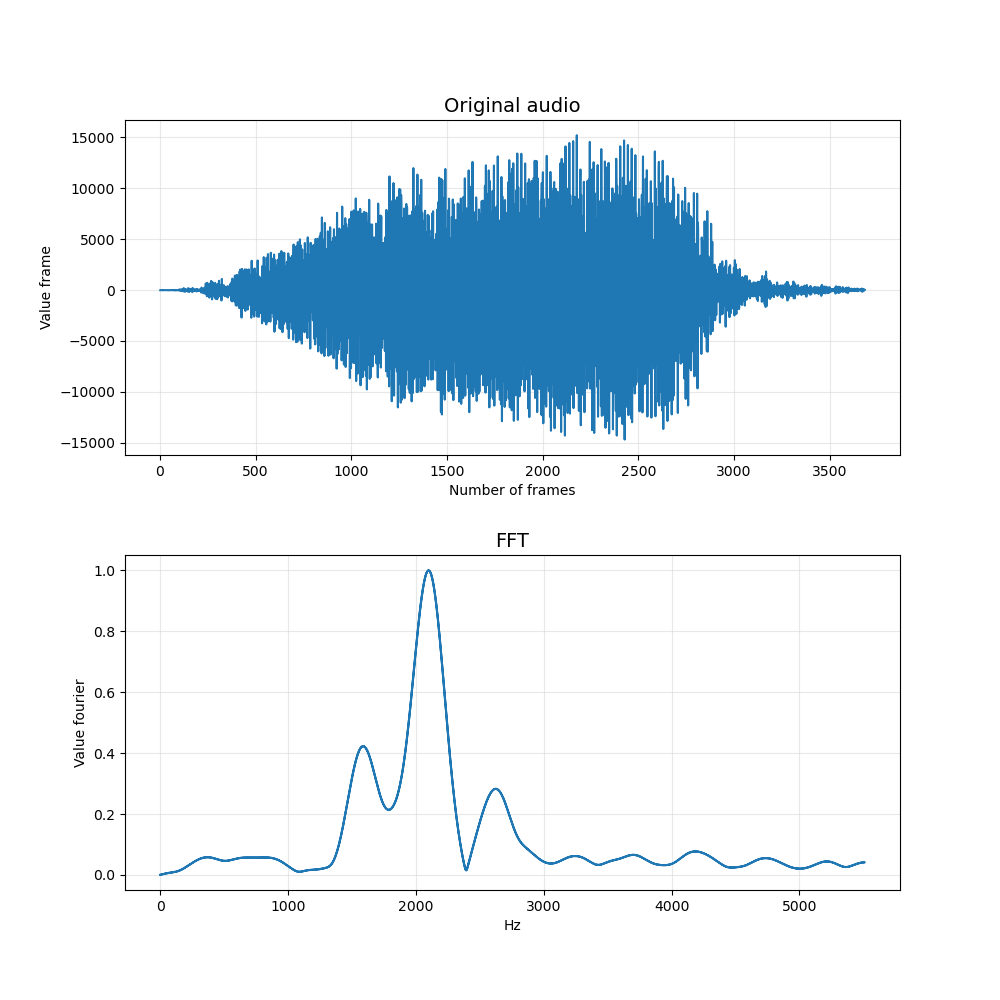
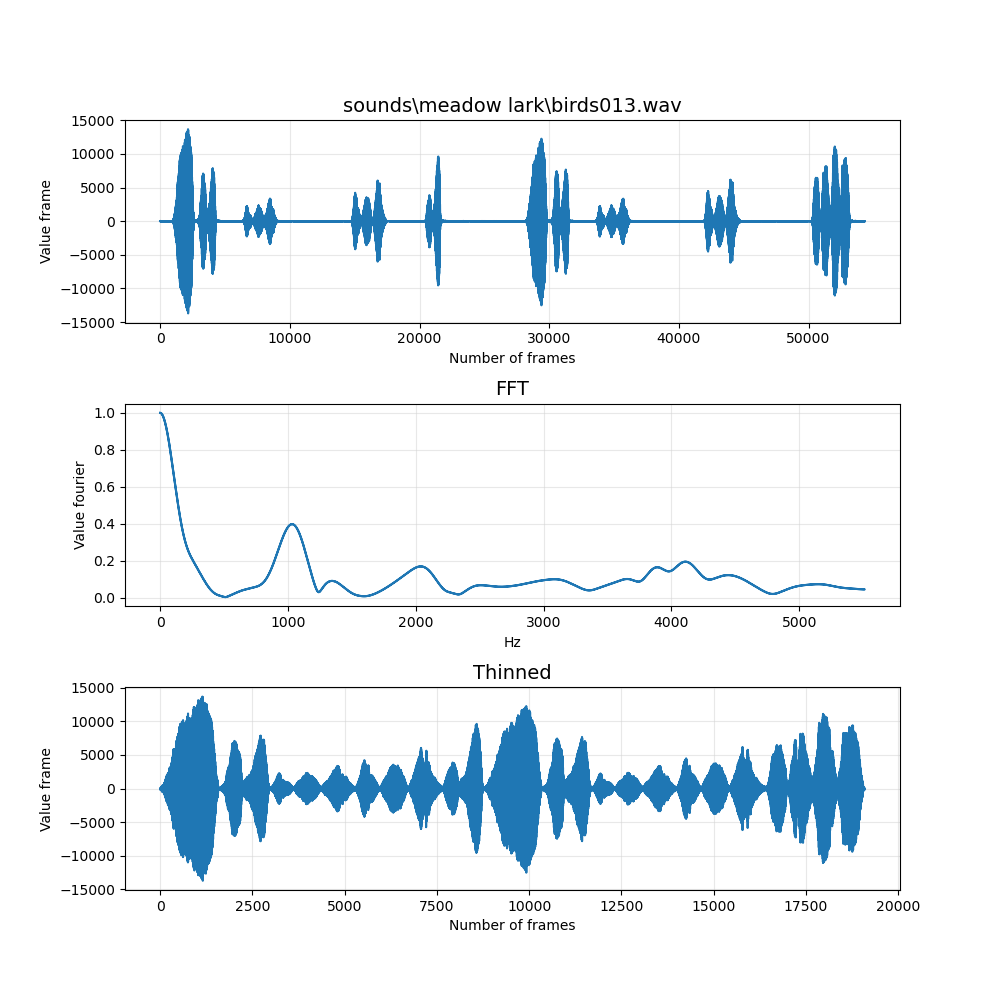
add_thin

diff --git a/wav_vis.py b/wav_vis.py
@@ -3,13 +3,26 @@ from scipy import signal
 import numpy as np
 import matplotlib.pyplot as plt
 
+
+# прорежает семплы
+# thin_factor коэф. обрезания относительно среднего значения
+def thinsamples(samples, thin_factor):
+    thinned_samples = []  # создаем пустой список
+    average = np.sum(np.absolute(samples)) / len(samples)  # абсолютное среднее значение
+    for i in samples:
+        if np.absolute(i) > average * thin_factor:
+            thinned_samples.append(i)
+    np.asarray(thinned_samples) # превращает в массив нампая
+    return thinned_samples
+
+
 types = {
     1: np.int8,
     2: np.int16,
     4: np.int32
 }
 
-namefile = r"sounds\crow\birds005.wav"
+namefile = r"sounds\meadow lark\birds013.wav"
 
 w = wave.open(namefile, 'r')
 (nchannels, sampwidth, framerate, nframes, comptype, compname) = w.getparams()
@@ -24,6 +37,9 @@ print(w.getparams())
 # ham = signal.hamming(len(samples))
 # fft = np.absolute(np.fft.fft(samples * ham))
 
+# прореживание
+thinned_samples = thinsamples(samples, 0.1) # thin_crop подбирать имперически
+
 win = signal.gaussian(len(samples), std=15)
 fft = np.absolute(np.fft.fft(samples * win))
 
@@ -34,19 +50,27 @@ fft = fft / fft.max()
 x = np.arange(1, len(samples) + 1)
 y = samples
 
+# координаты для прорежженного графика волны
+thin_x = np.arange(1, len(thinned_samples) + 1)
+thin_y = thinned_samples
+
 # координаты для преобразования фурье
 x_fft = np.absolute(np.fft.fftfreq(len(samples), 1 / framerate))  # вычисляет частоты
 y_fft = fft
 
 # Постройка графика
-fig, axes = plt.subplots(nrows=2, ncols=1, figsize=(10, 10))
-fig.subplots_adjust(wspace=0, hspace=0.3)
+fig, axes = plt.subplots(nrows=3, ncols=1, figsize=(10, 10))
+fig.subplots_adjust(wspace=0, hspace=0.4)
 
-axes[0].set_title('Original audio', fontsize=14)
+axes[0].set_title(namefile, fontsize=14)
 axes[0].set_xlabel('Number of frames', fontsize=10)
 axes[0].set_ylabel('Value frame', fontsize=10)
 axes[0].grid(True, c='lightgray', alpha=0.5)
 
+axes[2].set_title('Thinned', fontsize=14)
+axes[2].set_xlabel('Number of frames', fontsize=10)
+axes[2].set_ylabel('Value frame', fontsize=10)
+axes[2].grid(True, c='lightgray', alpha=0.5)
 
 axes[1].set_title('FFT', fontsize=14)
 axes[1].set_xlabel('Hz', fontsize=10)
@@ -54,7 +78,9 @@ axes[1].set_ylabel('Value fourier', fontsize=10)
 axes[1].grid(True, c='lightgray', alpha=0.5)
 
 axes[0].plot(x, y)
+axes[2].plot(thin_x, thin_y)
 axes[1].plot(x_fft, y_fft)
+
 
 fig.savefig("wave.png")
 fig.show()
